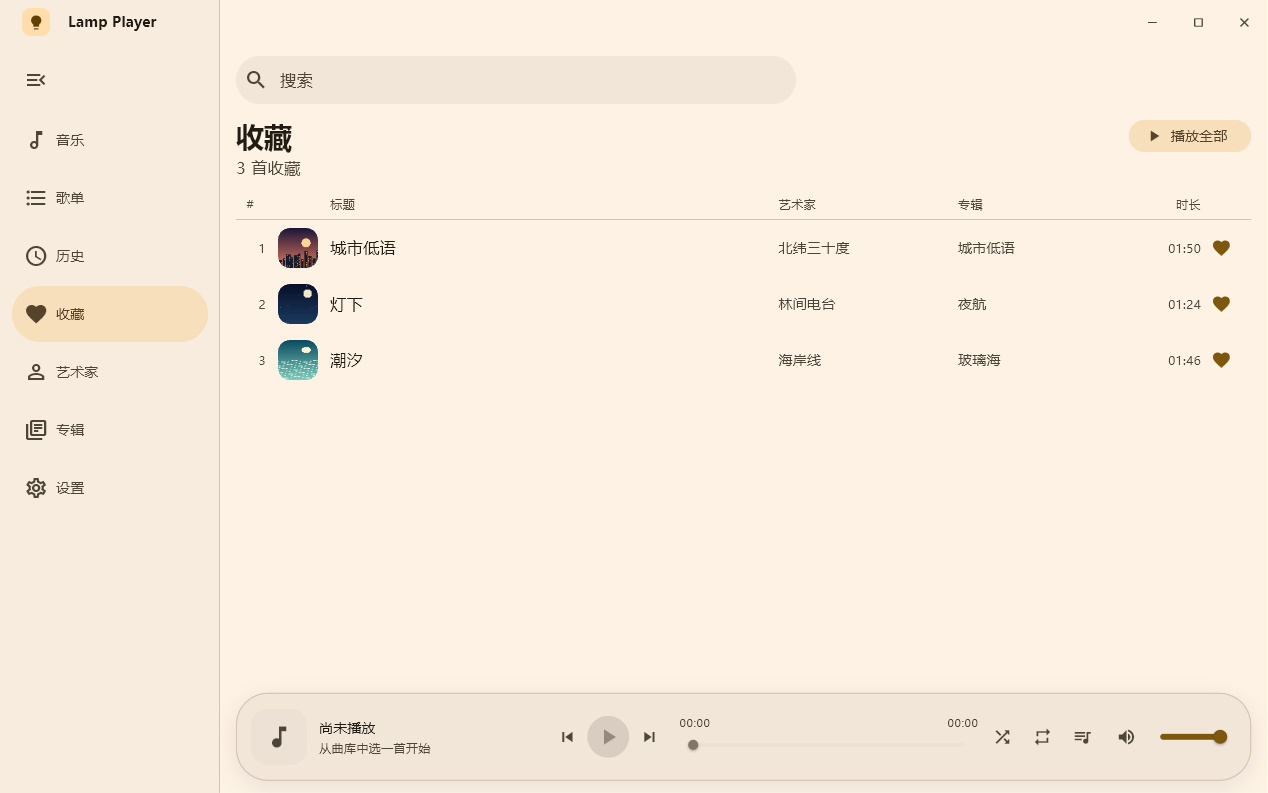
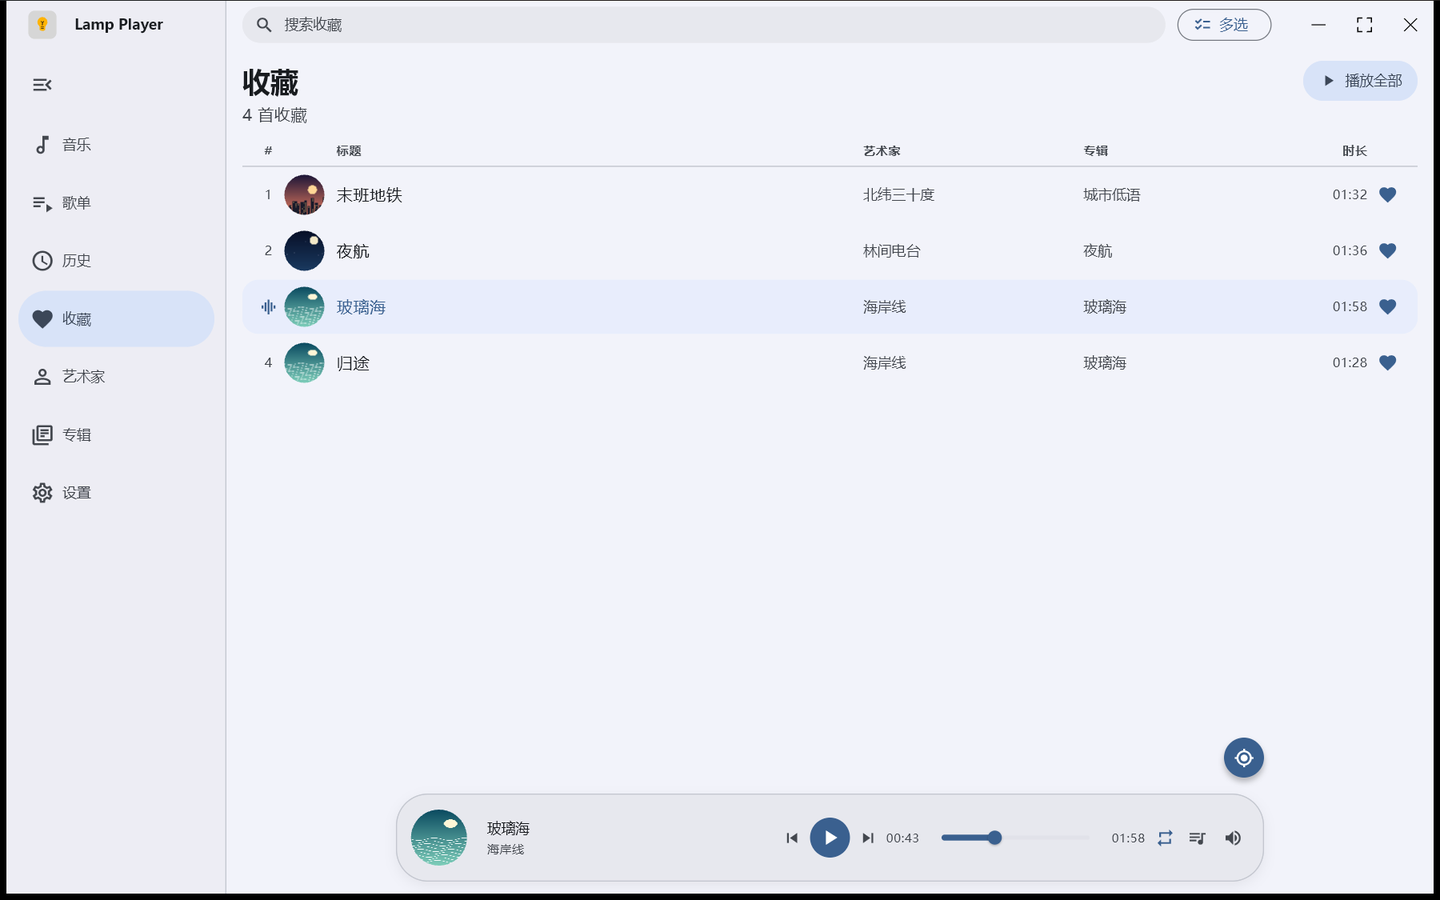
docs(README): 重拍界面预览截图
旧图拍于 2026-10-24，其后的顶栏、播放岛、设置页与歌词页改动都反映不出来；这次按当前版本重拍六张（浅色主题、1440×900、示例曲库），并补上目录结构里 docs/ 的「性能报告」。

diff --git a/README.md b/README.md
@@ -11,7 +11,7 @@
 ## 界面预览
 
 <p align="center">
-  <img src="docs/images/music.png" alt="曲库列表：封面、排序、收藏与播放条" width="860">
+  <img src="docs/images/music.png" alt="曲库列表：封面、排序、收藏与播放岛" width="860">
 </p>
 
 <p align="center">
@@ -127,7 +127,7 @@ cargo fetch --manifest-path rust/Cargo.toml
 ├── integration_test/          桌面端集成测试（需真实原生库）
 ├── windows/                   Windows 宿主工程
 ├── scripts/                   环境与检查脚本
-├── docs/                      架构、接口契约、路线图
+├── docs/                      架构、接口契约、性能报告、路线图
 └── third_party/               第三方二进制（BASS，不入库）
 ```
 
